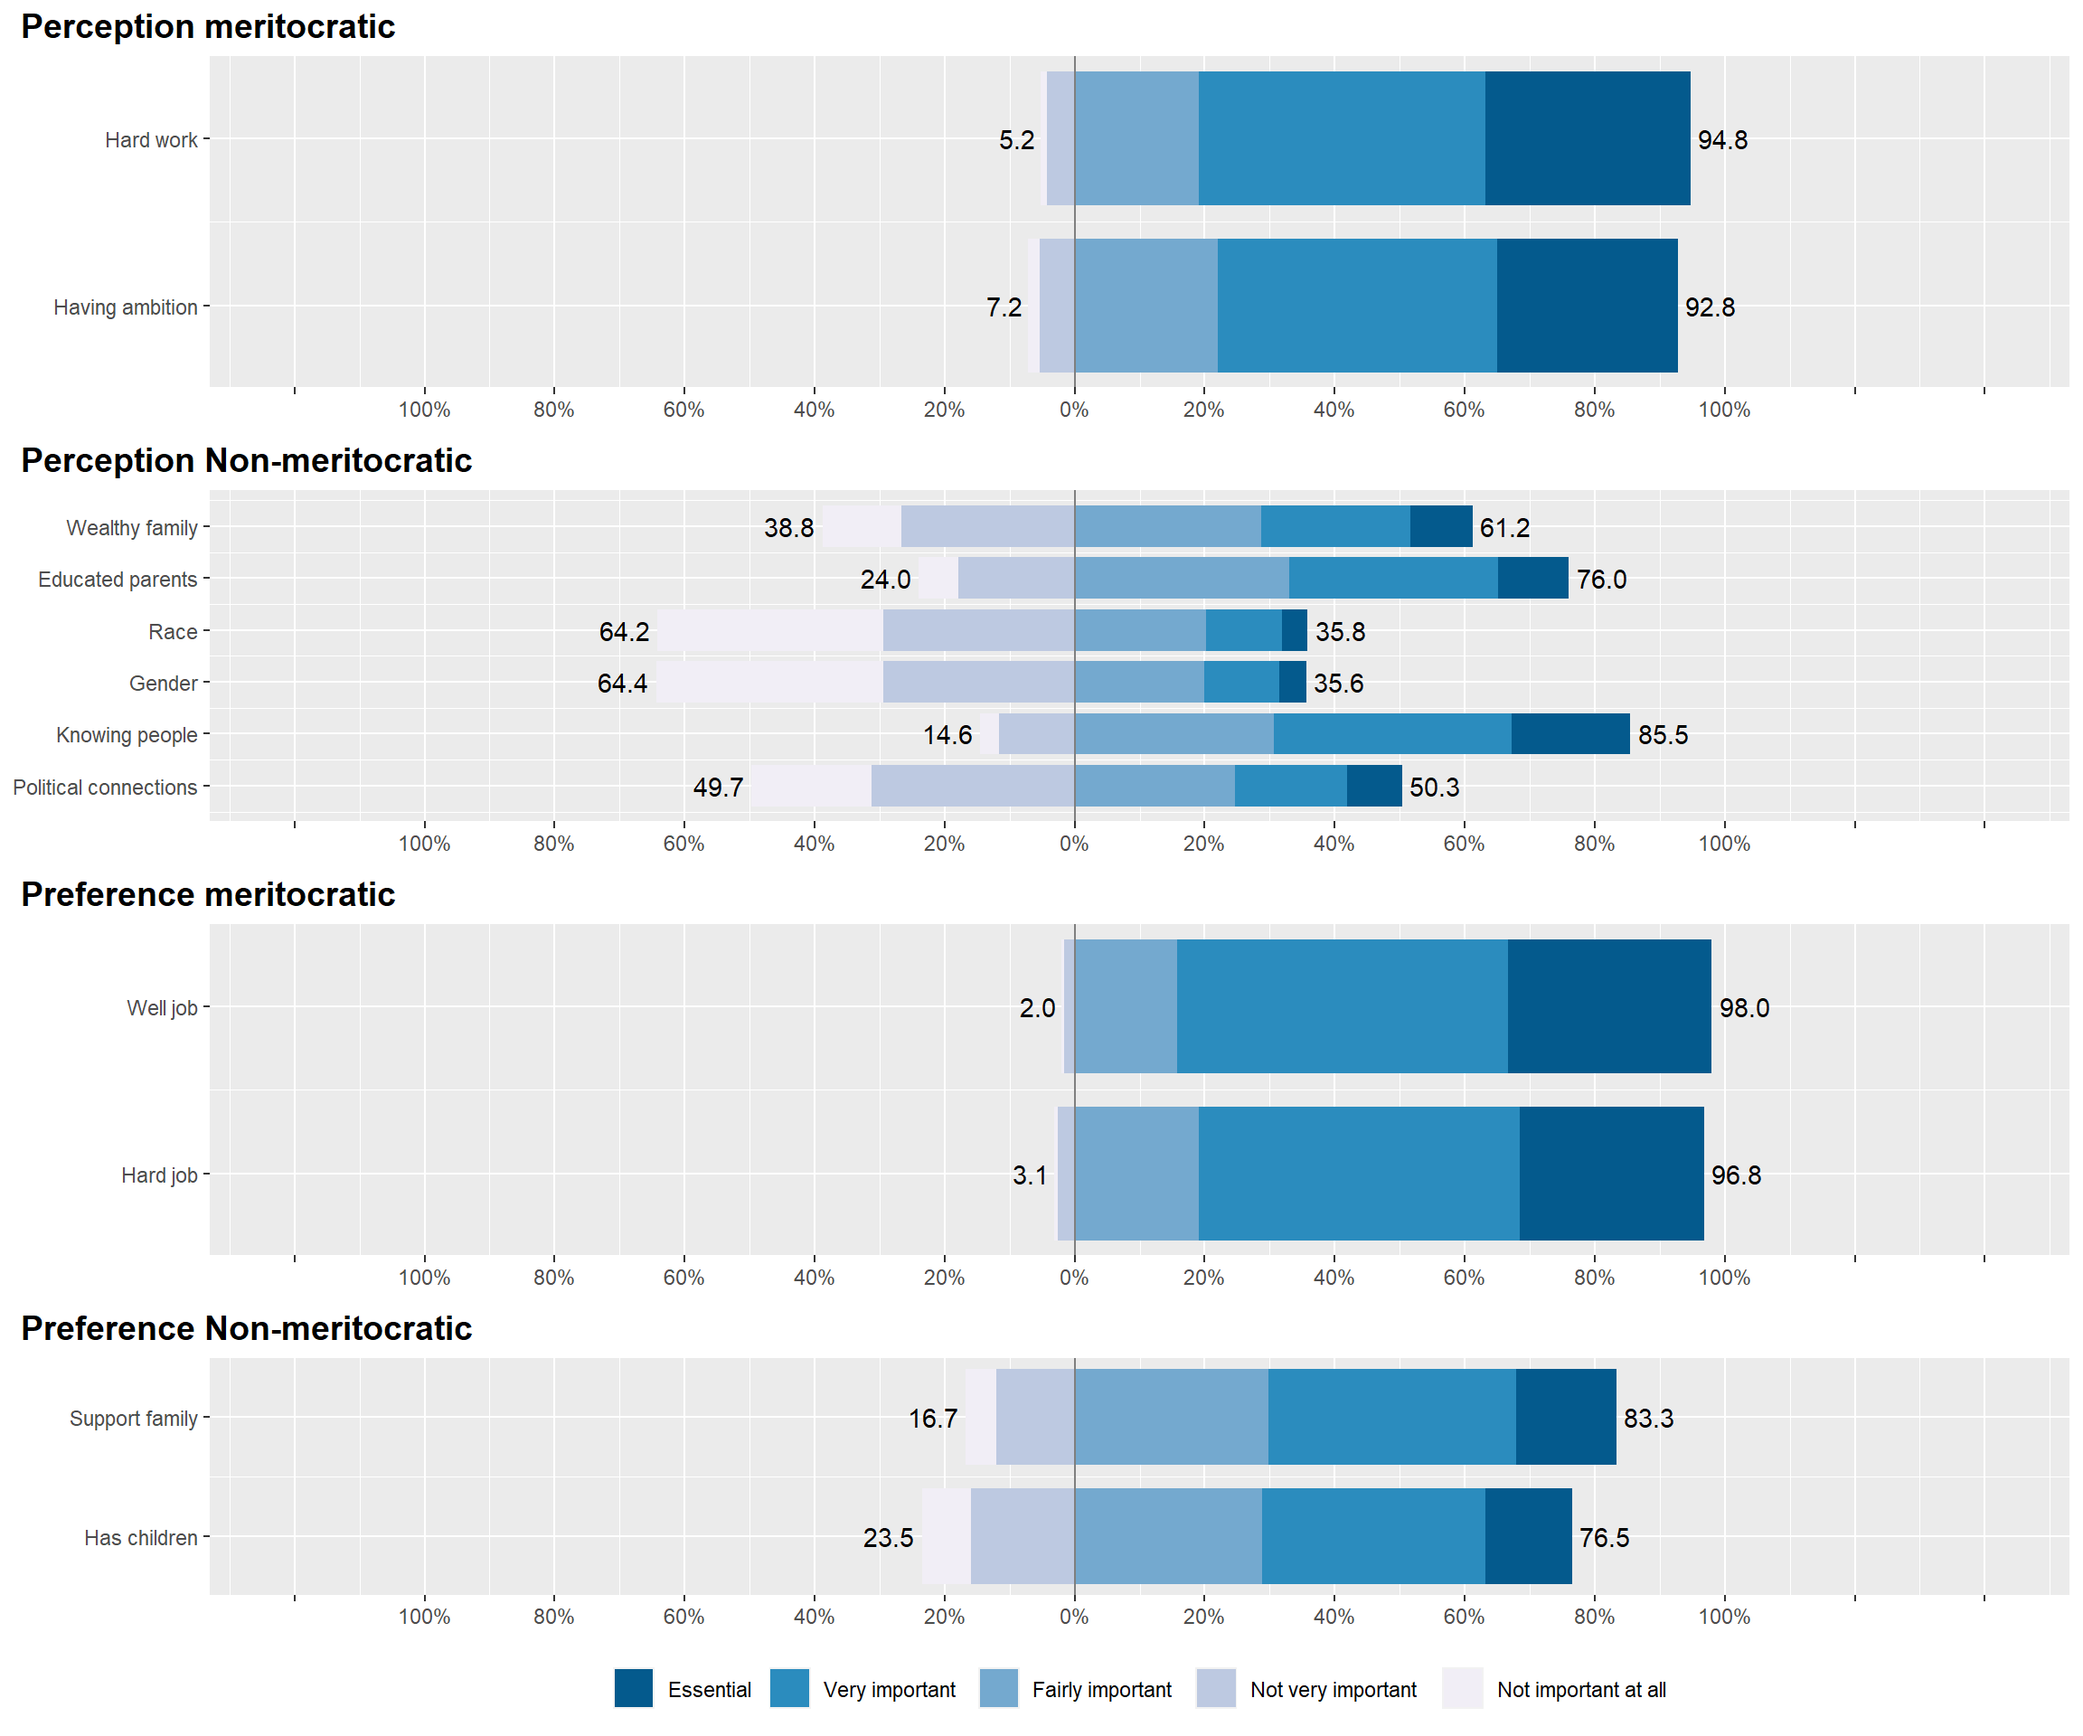
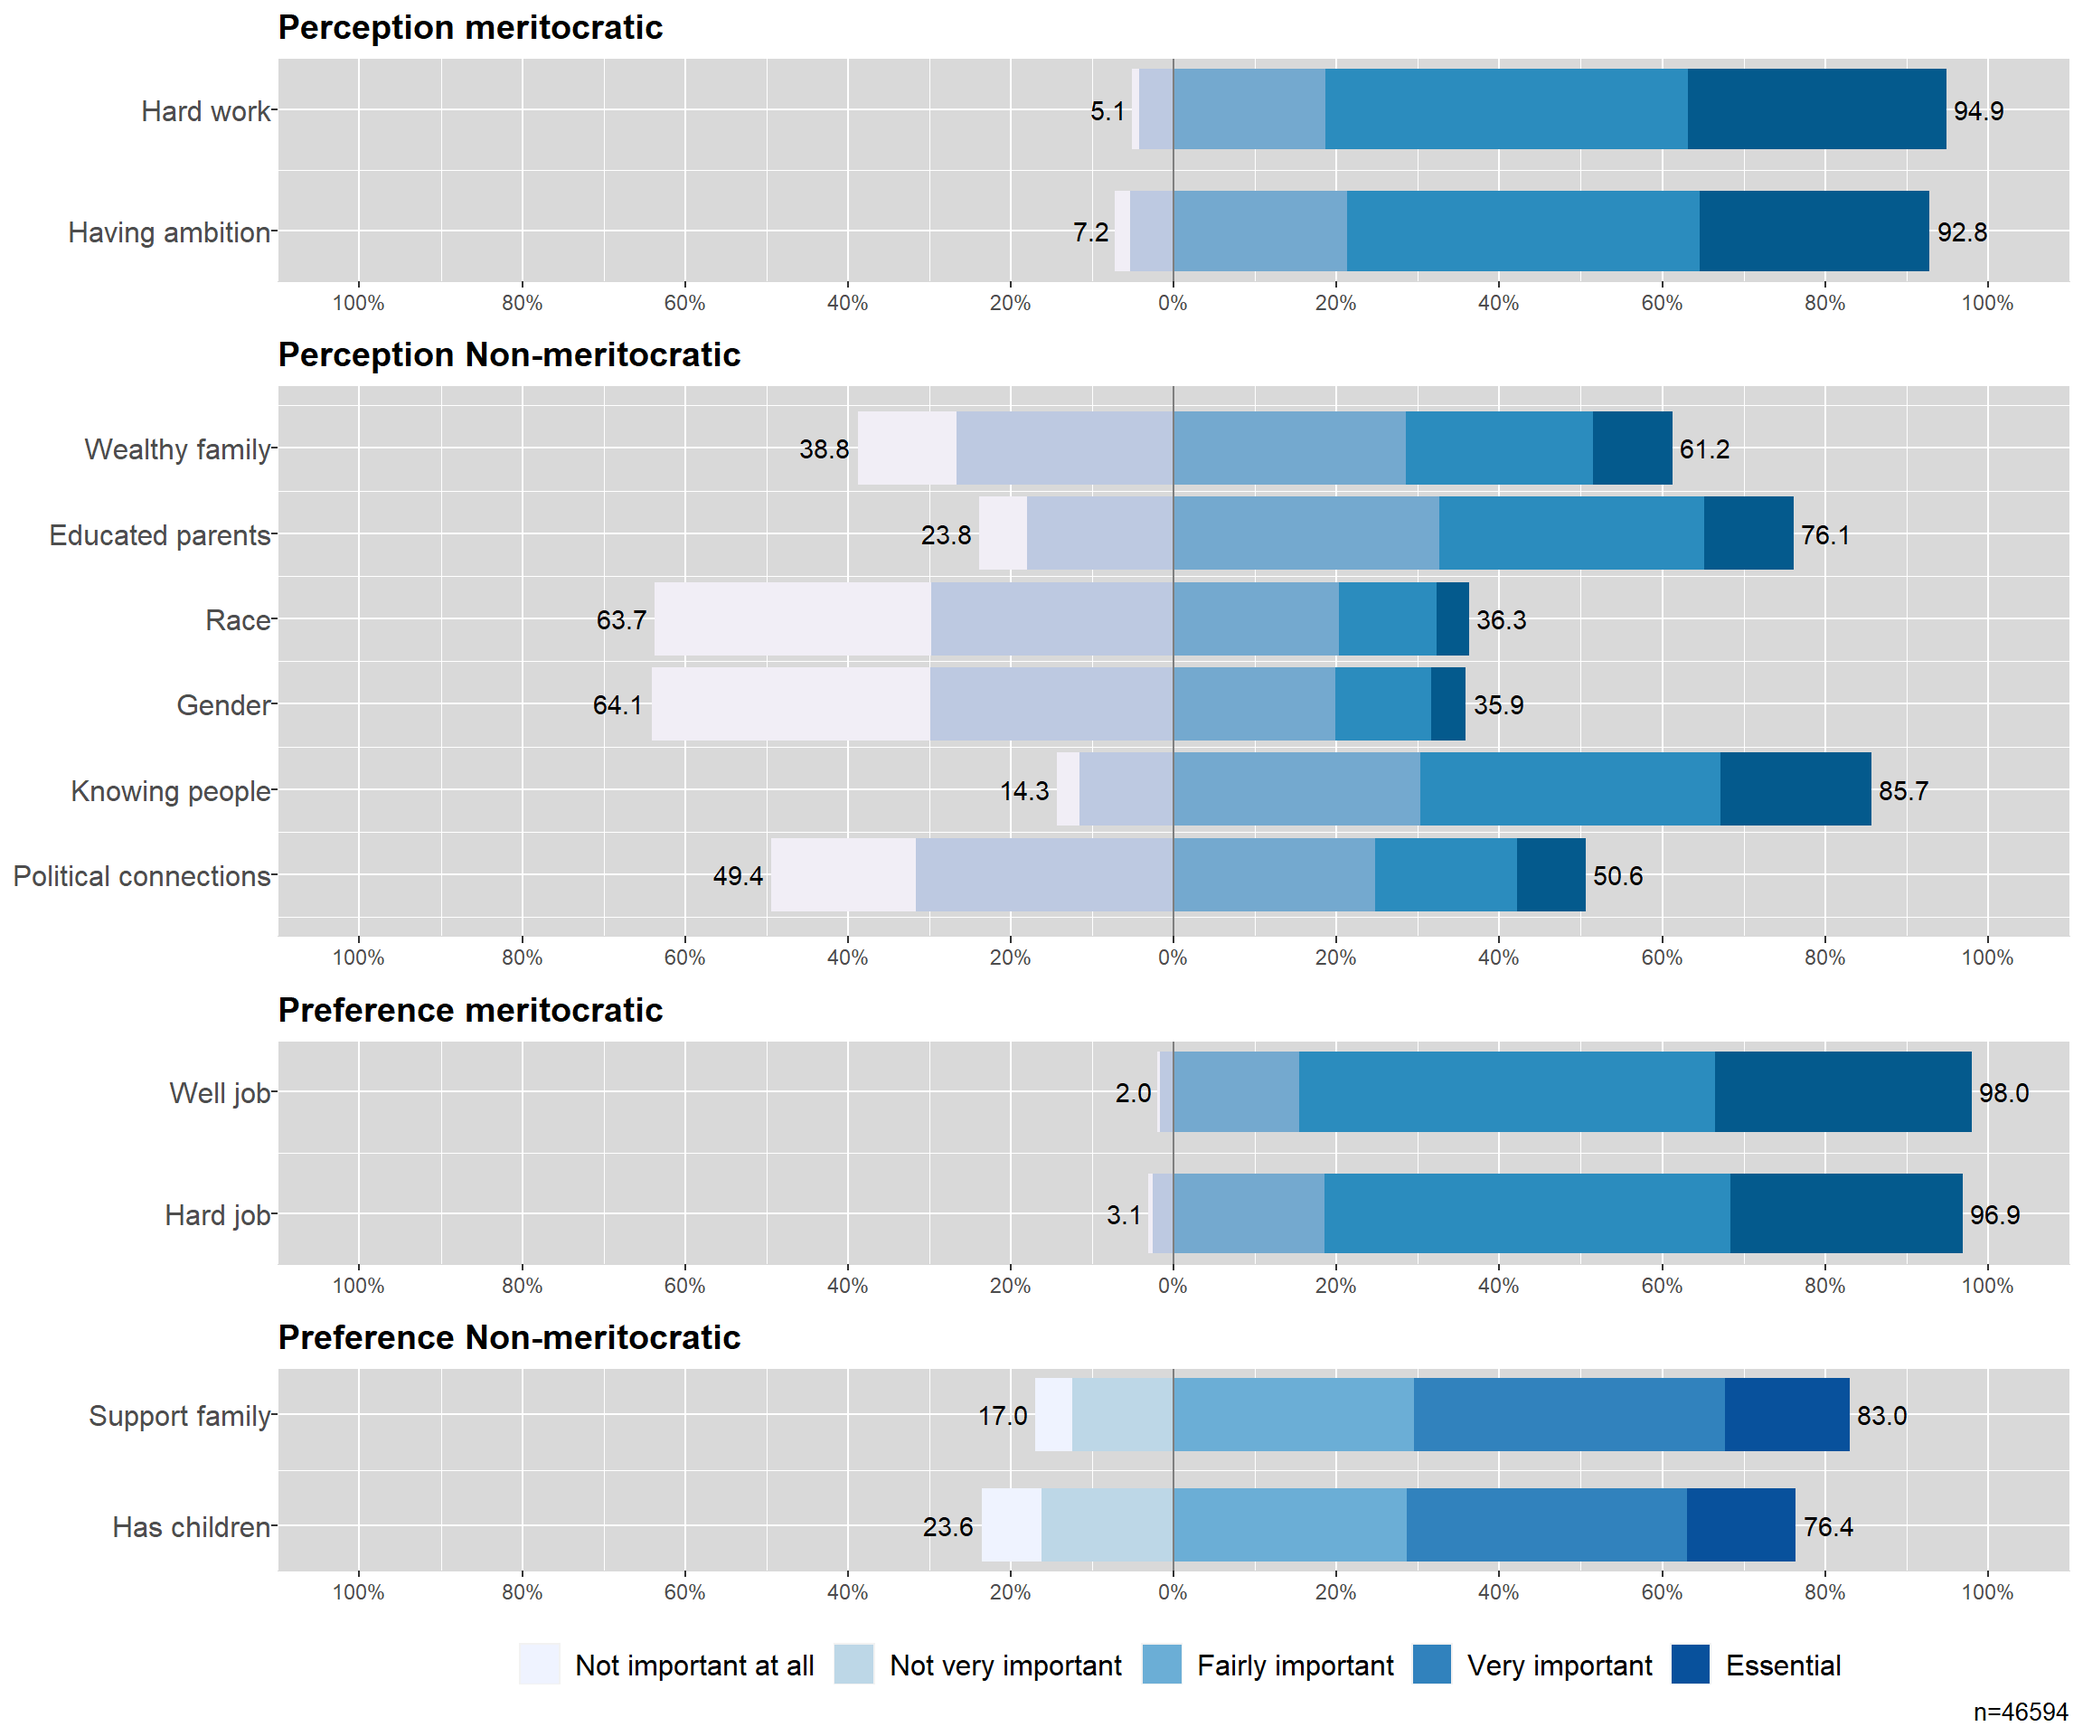
study1-01
- tabla ajustada de indicadores
- plot ajustado
- se incluye una correción en la descripción del plot likert

diff --git a/paper_study1.html b/paper_study1.html
@@ -301,7 +301,7 @@ $(document).ready(function () {
 <li>Preferences for meritocracy-non meritocracy: for operationalizing normative preferences we used a list of items related to reasons for pay. The ISSP question was: <em>In deciding how much people ought to earn, how important should each of these things be, in your opinion</em>, rated in the same <em>essential-non important at all</em> scale as the questions for meritocratic preferences.</li>
 </ul>
 <p>Table <a href="#tab:table-issp">1</a> below summarise the items classified according to the proposal based on perception and preference regarding to the meritocratic/non-meritocratic dimensions:</p>
-<table class="table table-striped table-bordered" style="font-size: 12px; width: auto !important; margin-left: auto; margin-right: auto;">
+<table class="table table-striped table-bordered" style="font-size: 20px; width: auto !important; margin-left: auto; margin-right: auto;">
 <caption style="font-size: initial !important;">
 <span id="tab:table-issp">Table 1: </span>Items of the ISSP meritocratic perceptions and preferences measures
 </caption>
@@ -320,75 +320,75 @@ Item
 </thead>
 <tbody>
 <tr>
-<td style="text-align:left;width: 1.5cm; vertical-align: middle !important;" rowspan="7">
+<td style="text-align:left;width: 2cm; vertical-align: middle !important;" rowspan="7">
 Perception
 </td>
-<td style="text-align:left;width: 2 cm; vertical-align: middle !important;" rowspan="2">
+<td style="text-align:left;width: 5cm; vertical-align: middle !important;" rowspan="2">
 Meritocratic
 </td>
-<td style="text-align:left;">
+<td style="text-align:left;width: 12cm; ">
 How important is having ambition?
 </td>
 </tr>
 <tr>
-<td style="text-align:left;">
+<td style="text-align:left;width: 12cm; ">
 How important is hard work?
 </td>
 </tr>
 <tr>
-<td style="text-align:left;width: 2 cm; vertical-align: middle !important;" rowspan="5">
+<td style="text-align:left;width: 5cm; vertical-align: middle !important;" rowspan="5">
 Non-meritocratic
 </td>
-<td style="text-align:left;">
+<td style="text-align:left;width: 12cm; ">
 How important is coming from a wealthy family?
 </td>
 </tr>
 <tr>
-<td style="text-align:left;">
+<td style="text-align:left;width: 12cm; ">
 How important is a person’s race?
 </td>
 </tr>
 <tr>
-<td style="text-align:left;">
+<td style="text-align:left;width: 12cm; ">
 How important is being born a man or a woman?
 </td>
 </tr>
 <tr>
-<td style="text-align:left;">
+<td style="text-align:left;width: 12cm; ">
 How important is knowing the right people
 </td>
 </tr>
 <tr>
-<td style="text-align:left;">
+<td style="text-align:left;width: 12cm; ">
 How important is having political connections
 </td>
 </tr>
 <tr>
-<td style="text-align:left;width: 1.5cm; vertical-align: middle !important;" rowspan="4">
+<td style="text-align:left;width: 2cm; vertical-align: middle !important;" rowspan="4">
 Preference
 </td>
-<td style="text-align:left;width: 2 cm; vertical-align: middle !important;" rowspan="2">
+<td style="text-align:left;width: 5cm; vertical-align: middle !important;" rowspan="2">
 Meritocratic
 </td>
-<td style="text-align:left;">
+<td style="text-align:left;width: 12cm; ">
 How well he or she does the job?
 </td>
 </tr>
 <tr>
-<td style="text-align:left;">
+<td style="text-align:left;width: 12cm; ">
 How hard he or she works at the job?
 </td>
 </tr>
 <tr>
-<td style="text-align:left;width: 2 cm; vertical-align: middle !important;" rowspan="2">
+<td style="text-align:left;width: 5cm; vertical-align: middle !important;" rowspan="2">
 Non-meritocratic
 </td>
-<td style="text-align:left;">
+<td style="text-align:left;width: 12cm; ">
 What is needed to support a family?
 </td>
 </tr>
 <tr>
-<td style="text-align:left;">
+<td style="text-align:left;width: 12cm; ">
 Whether the person has children to support?
 </td>
 </tr>
@@ -405,9 +405,9 @@ Whether the person has children to support?
 <h2>Descriptive analyses</h2>
 <!-- (here summary descriptive table - @julio) -->
 <!-- Table \@ref(tab:desc-issp) -->
-<p>Figure <a href="#fig:likert-issp">1</a> shows the distribution of responses across the indicators for each perception and preference in the meritocratic and non-meritocratic dimensions. On one side, we see that there is a certain degree of importance attributed to factors such as hard work and ambition in the process of getting ahead, concentrating 94.8% and 92.8% in the fairly important to essential categories.</p>
-<p>By contrast, for the non-meritocratic aspects, parental background showed a more dispersed opinion, where 61.2% considers that coming from a wealthy family is important, and 76% considers that having educated parents is important. On the other hand, the background dimension shows that people’ opinions are generally in the opposite sense, in which 64.2% consider that a person’s racial origin is not very important or not important at all in the process of getting ahead in life, while 35% consider it important, and this is nearly identical regarding the importance of gender. Lastly, we can observe differences in the networks dimension, in which 85.5% consider it to be important to know the right people in the process of getting ahead in life, contrasting with 50% who consider political connections to be important.</p>
-<p>Regarding normative preferences, we observe how well a person performs his or her job and amount of effort involved concentrates 98% and 96.8% of the responses in the categories that attribute importance to these characteristics when evaluating the pay that people deserve. Finally, in relation to structural constrains, 83.3% attribute importance to the fact that supporting a family should be a relevant factor with respect to the pay obtained, while having children to support translates into 76.5% of importance in this dimension.</p>
+<p>Figure <a href="#fig:likert-issp">1</a> shows the distribution of responses across the indicators for each perception and preference in the meritocratic and non-meritocratic dimensions. On one side, we see that there is a certain degree of importance attributed to factors such as hard work and ambition in the process of getting ahead, concentrating 94.9% and 92.8% in the fairly important to essential categories.</p>
+<p>By contrast, for the non-meritocratic aspects, parental background showed a more dispersed opinion, where 61.2% considers that coming from a wealthy family is important, and 76% considers that having educated parents is important. On the other hand, the background dimension shows that people’ opinions are generally in the opposite sense, in which 63.7% consider that a person’s racial origin is not very important or not important at all in the process of getting ahead in life, while 35% consider it important, and this is nearly identical regarding the importance of gender. Lastly, we can observe differences in the networks dimension, in which 85.7% consider it to be important to know the right people in the process of getting ahead in life, contrasting with 50% who consider political connections to be important.</p>
+<p>Regarding normative preferences, we observe how well a person performs his or her job and amount of effort involved concentrates 98% and 96.9% of the responses in the categories that attribute importance to these characteristics when evaluating the pay that people deserve. Finally, in relation to structural constrains, 83% attribute importance to the fact that supporting a family should be a relevant factor with respect to the pay obtained, while having children to support translates into 76.4% of importance in this dimension.</p>
 <div class="figure"><span id="fig:likert-issp"></span>
 <img src="paper_study1_files/figure-html/likert-issp-1.png" alt="Distribution of responses in the ISSP meritocracy items" width="1152" />
 <p class="caption">
